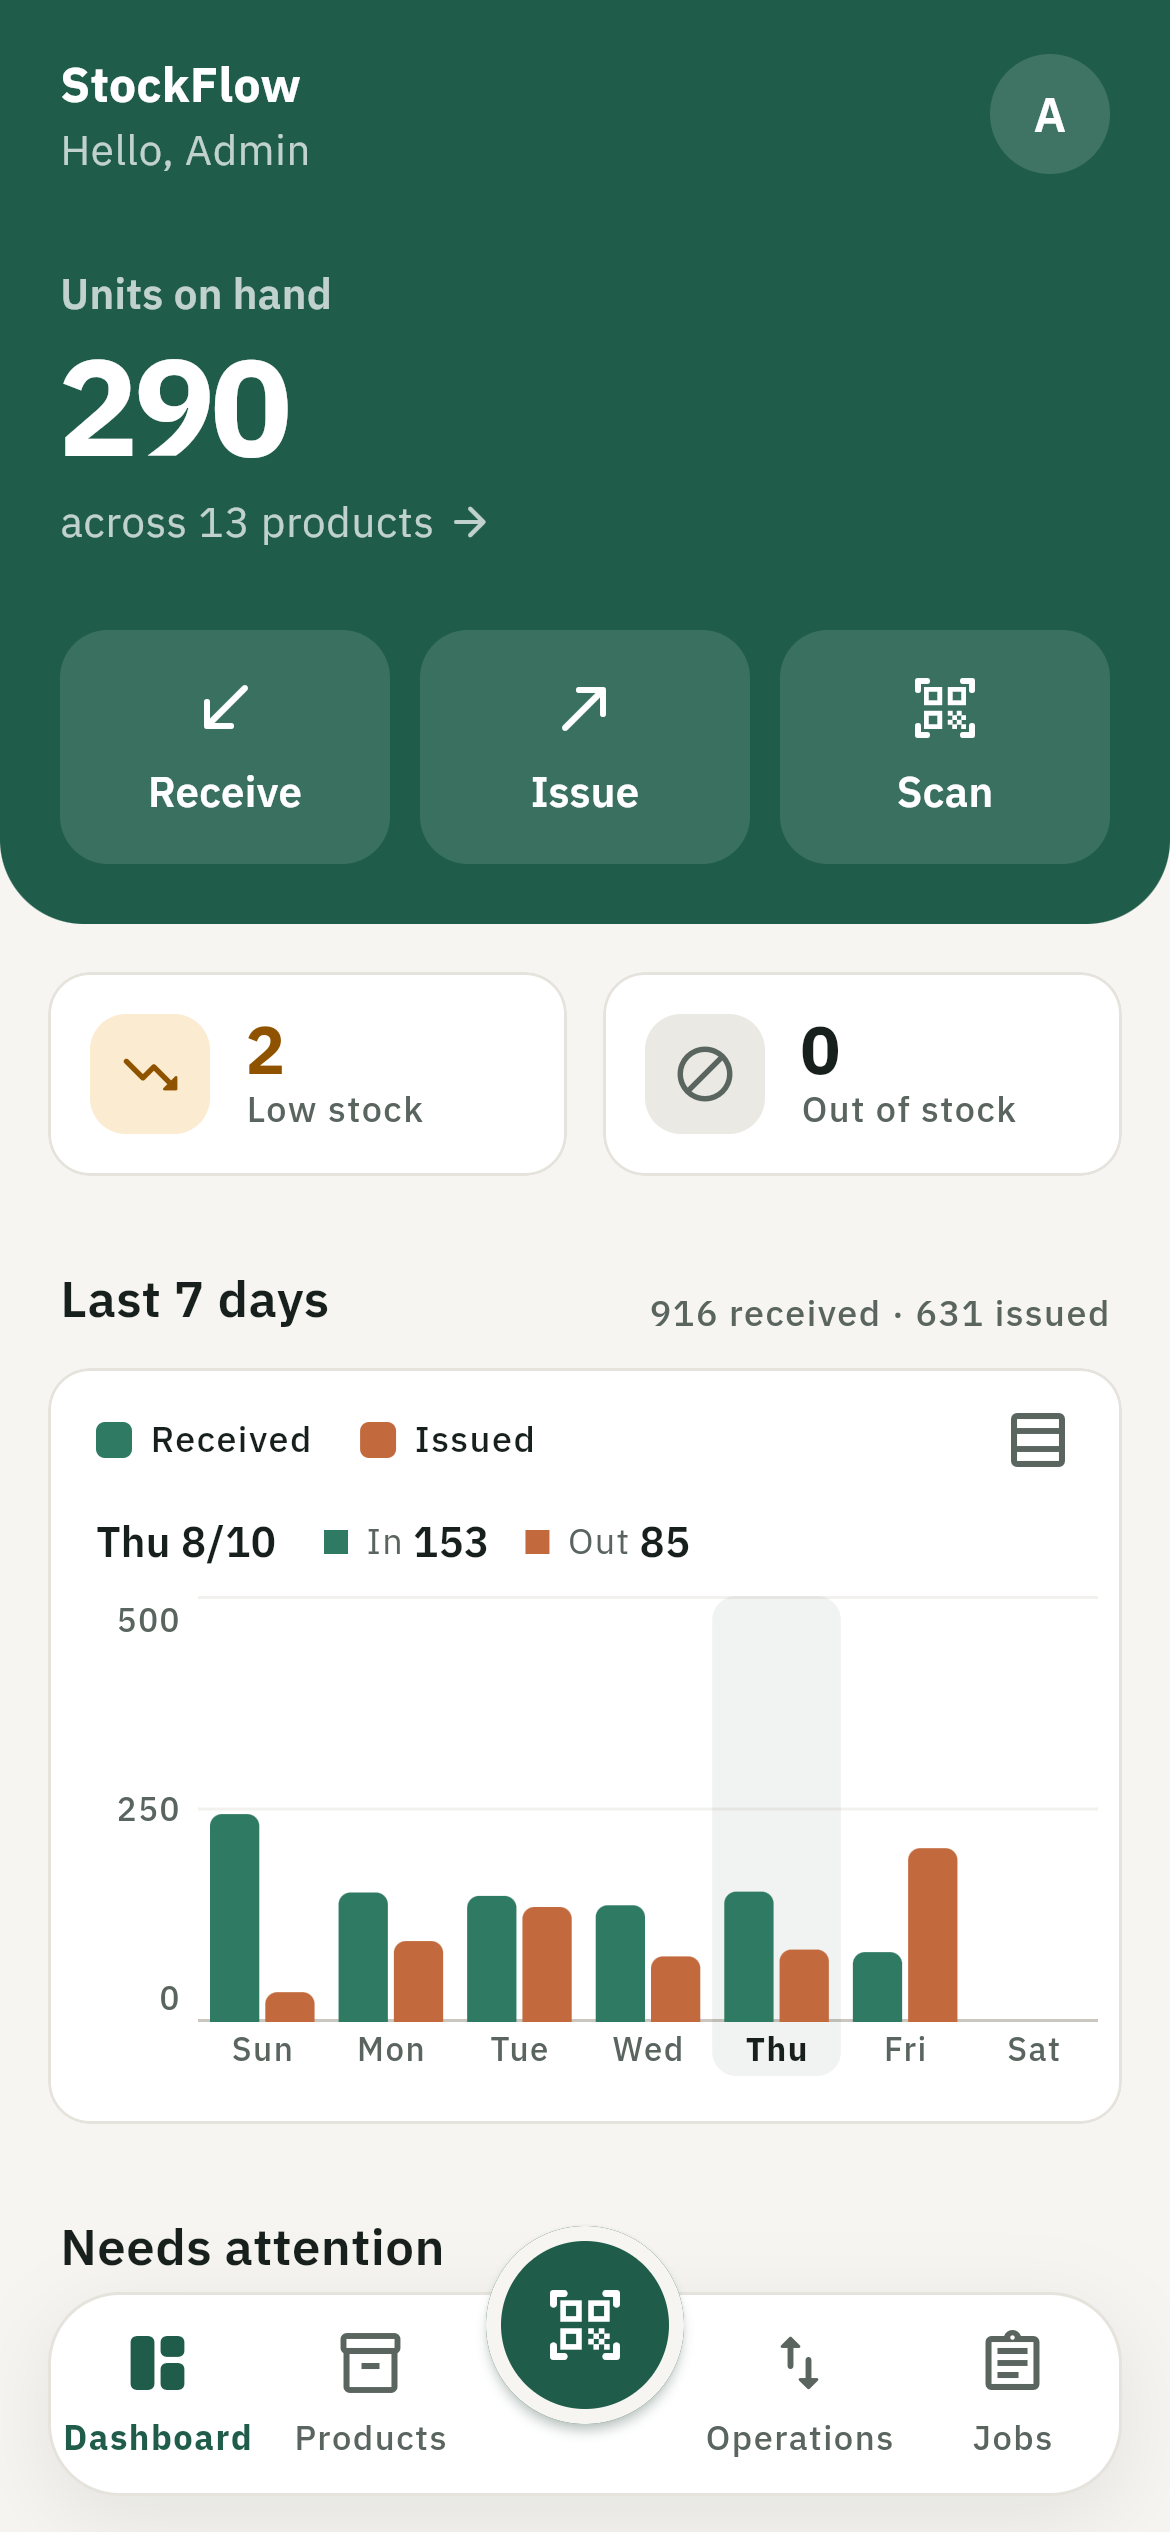
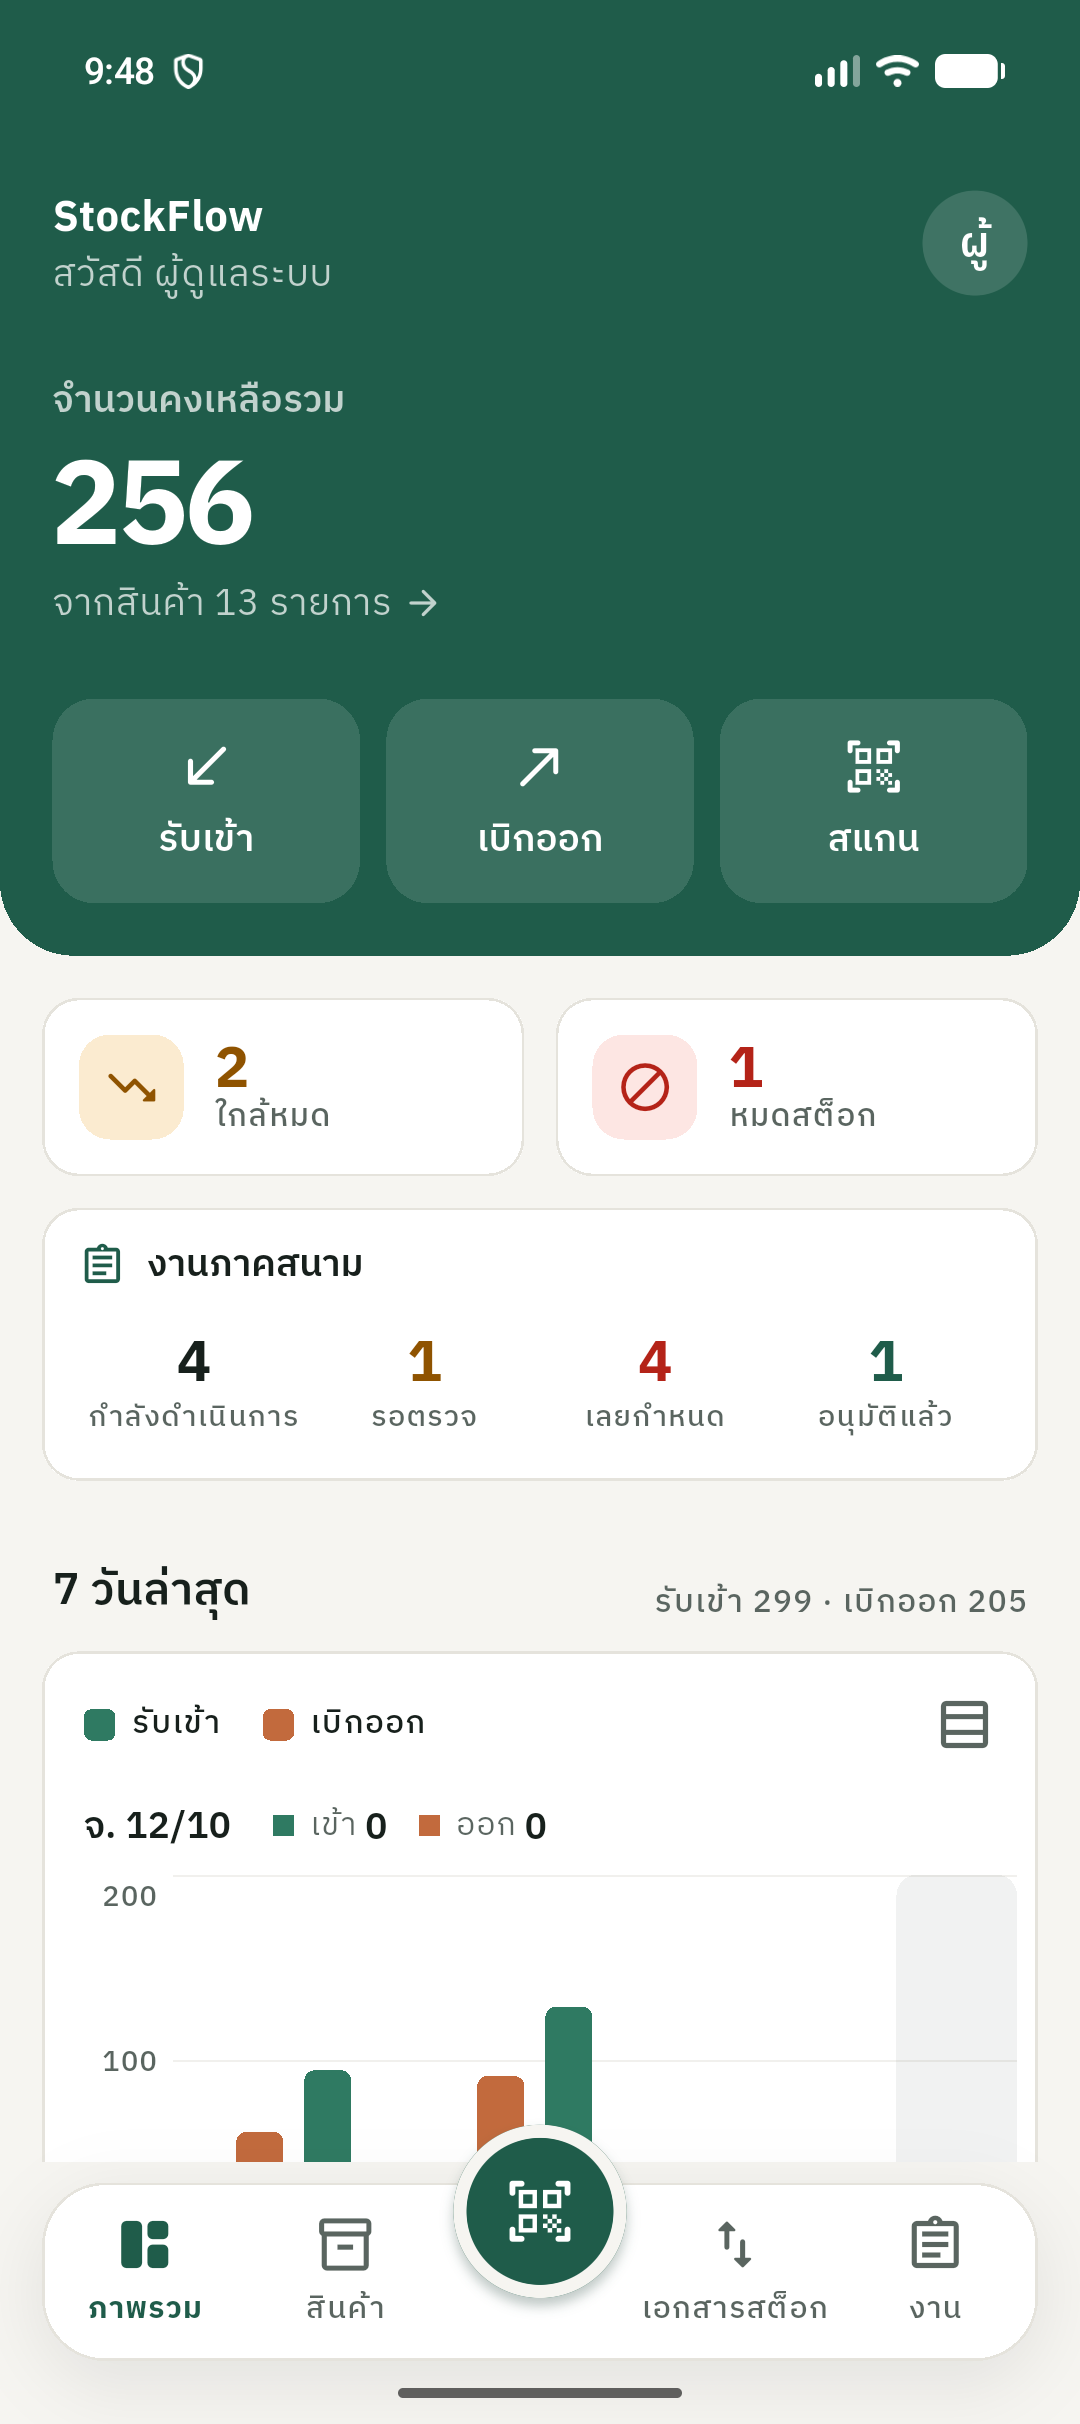
fix(mobile): chip label, nav layout, offline DB upgrade; refresh screenshots
- Selected chips show their label (was dark on dark)
- Nav tabs split into equal halves so the scan button never covers a tab
- Work-order tables are created with IF NOT EXISTS so upgrading from a pre-release DB doesn't crash at startup
- README screenshots retaken: Thai UI, AC catalog, work orders

diff --git a/mobile/lib/core/widgets/floating_nav.dart b/mobile/lib/core/widgets/floating_nav.dart
@@ -66,13 +66,31 @@ class FloatingNav extends StatelessWidget {
                   ),
                 ],
               ),
-              // Tabs split around the scan button (left gets the extra one).
+              // Two equal halves keep the gap centred under the scan button,
+              // even with an odd number of tabs (left gets the extra one).
               child: Row(
                 children: [
-                  for (var i = 0; i < (items.length + 1) ~/ 2; i++) slot(i),
+                  Expanded(
+                    child: Row(
+                      children: [
+                        for (var i = 0; i < (items.length + 1) ~/ 2; i++)
+                          slot(i),
+                      ],
+                    ),
+                  ),
                   const SizedBox(width: 72),
-                  for (var i = (items.length + 1) ~/ 2; i < items.length; i++)
-                    slot(i),
+                  Expanded(
+                    child: Row(
+                      children: [
+                        for (
+                          var i = (items.length + 1) ~/ 2;
+                          i < items.length;
+                          i++
+                        )
+                          slot(i),
+                      ],
+                    ),
+                  ),
                 ],
               ),
             ),

diff --git a/mobile/lib/features/offline/data/local_store.dart b/mobile/lib/features/offline/data/local_store.dart
@@ -46,16 +46,18 @@ Future<Database> openLocalDatabase({String? path}) async => openDatabase(
 );
 
 /// v2: saved work orders and checklist edits made offline.
+/// Idempotent, so an upgrade over a pre-release build that already created
+/// these tables doesn't crash at startup.
 Future<void> _createWorkOrderTables(Database db) async {
   await db.execute('''
-    CREATE TABLE wo_cache (
+    CREATE TABLE IF NOT EXISTS wo_cache (
       id        TEXT PRIMARY KEY,
       json      TEXT NOT NULL,
       cached_at INTEGER NOT NULL
     )''');
   // One row per checklist item: a newer edit replaces an older one.
   await db.execute('''
-    CREATE TABLE wo_checklist_ops (
+    CREATE TABLE IF NOT EXISTS wo_checklist_ops (
       wo_id         TEXT NOT NULL,
       item_id       TEXT NOT NULL,
       done          INTEGER NOT NULL,

diff --git a/mobile/lib/core/theme.dart b/mobile/lib/core/theme.dart
@@ -238,7 +238,12 @@ abstract final class AppTheme {
         checkmarkColor: s.surface,
         side: BorderSide(color: s.outline),
         shape: RoundedRectangleBorder(borderRadius: BorderRadius.circular(10)),
-        labelStyle: text.labelLarge?.copyWith(color: s.onSurface),
+        // Selected chips are dark; the label and icon flip to the surface.
+        labelStyle: text.labelLarge?.copyWith(
+          color: WidgetStateColor.resolveWith(
+            (st) => st.contains(WidgetState.selected) ? s.surface : s.onSurface,
+          ),
+        ),
         secondaryLabelStyle: text.labelLarge?.copyWith(color: s.surface),
         padding: const EdgeInsets.symmetric(horizontal: 6, vertical: 6),
         showCheckmark: false,
